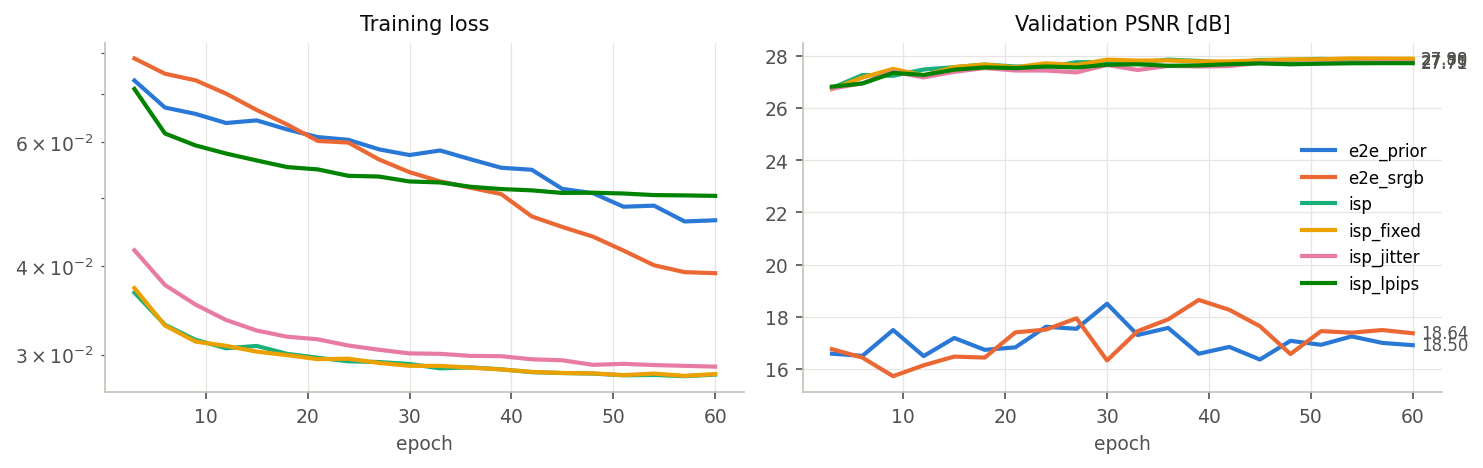
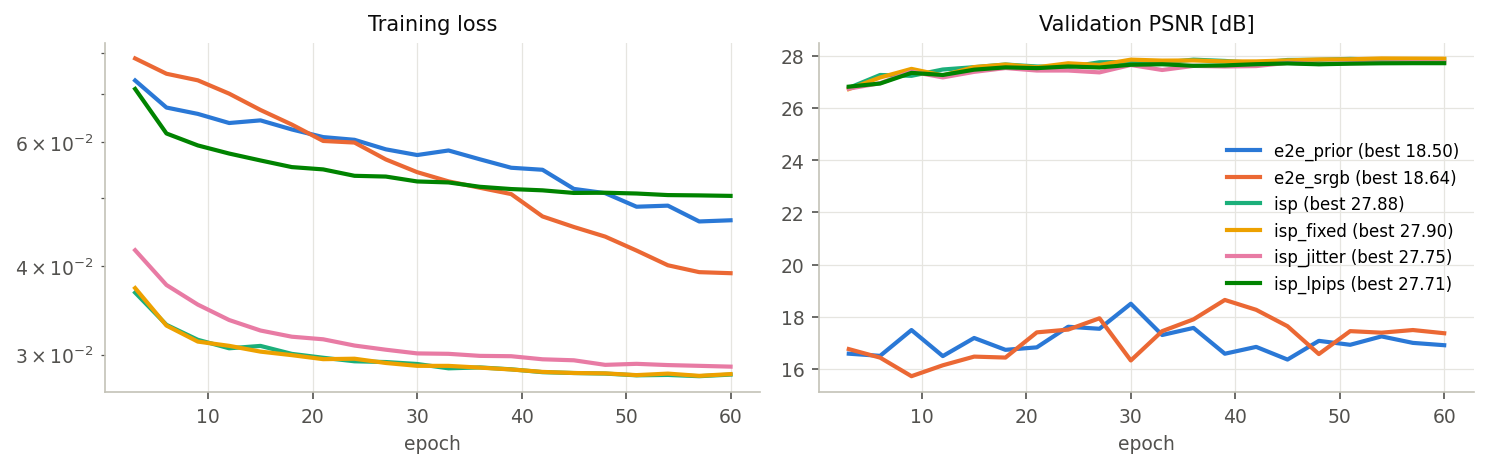
feat: add demo script and improve documentation figures

diff --git a/project2/scripts/predict.py b/project2/scripts/predict.py
@@ -1,0 +1,122 @@
+"""Demo: enhance a single image with a trained network.
+
+Accepts either
+  * a RAW file (.NEF etc.) - the low-light input and the ground truth are generated
+    exactly as in the dataset (-3 EV + Poisson/Gaussian noise), so metrics can be shown, or
+  * an already dark 8-bit image (.png/.jpg) - optionally with --gt for metrics.
+
+Writes <stem>_input.png, <stem>_histeq.png, <stem>_network.png and a side-by-side
+<stem>_comparison.png into --out.
+
+  uv run python scripts/predict.py data/nef/redaf7d93t.NEF
+  uv run python scripts/predict.py data/dataset/input/rc1d2751dt_input.png \
+      --gt data/dataset/gt/rc1d2751dt_gt.png --checkpoint runs/isp_jitter/best.pt
+"""
+from __future__ import annotations
+
+import argparse
+import sys
+import time
+from pathlib import Path
+
+import cv2
+import matplotlib
+
+matplotlib.use("Agg")
+import matplotlib.pyplot as plt  # noqa: E402
+import numpy as np  # noqa: E402
+import torch  # noqa: E402
+
+sys.path.insert(0, str(Path(__file__).resolve().parents[1]))
+
+from lle.baselines import histeq_y  # noqa: E402
+from lle.data import read_rgb  # noqa: E402
+from lle.metrics import LPIPS, psnr, ssim  # noqa: E402
+from lle.models import build_model, infer_full  # noqa: E402
+from lle.raw_pipeline import get_ground_truth, get_linear_image, get_low_light  # noqa: E402
+from lle.utils import get_device  # noqa: E402
+
+RAW_EXTS = {".nef", ".cr2", ".arw", ".dng", ".raf", ".orf", ".rw2"}
+
+
+def load_inputs(path: Path, gt_path: str | None, ev: float, seed: int):
+    if path.suffix.lower() in RAW_EXTS:
+        import rawpy
+
+        with rawpy.imread(str(path)) as raw:
+            gt = get_ground_truth(raw)
+            lin = get_linear_image(raw)
+        dark = get_low_light(None, ev, rng=np.random.default_rng(seed), linear_img=lin)
+        return dark, gt
+    dark = read_rgb(path)
+    return dark, (read_rgb(gt_path) if gt_path else None)
+
+
+def save(path: Path, img: np.ndarray):
+    cv2.imwrite(str(path), cv2.cvtColor(img, cv2.COLOR_RGB2BGR))
+
+
+def main():
+    ap = argparse.ArgumentParser()
+    ap.add_argument("image", help="RAW file (.NEF) or a dark 8-bit image")
+    ap.add_argument("--gt", default=None, help="ground truth for an 8-bit input (optional)")
+    ap.add_argument("--checkpoint", default="runs/isp/best.pt")
+    ap.add_argument("--out", default="results/demo")
+    ap.add_argument("--ev", type=float, default=-3.0, help="exposure reduction for RAW input")
+    ap.add_argument("--seed", type=int, default=0, help="noise seed for RAW input")
+    a = ap.parse_args()
+
+    dev = get_device()
+    path = Path(a.image)
+    out = Path(a.out)
+    out.mkdir(parents=True, exist_ok=True)
+
+    dark, gt = load_inputs(path, a.gt, a.ev, a.seed)
+    ck = torch.load(a.checkpoint, map_location="cpu", weights_only=False)
+    model = build_model(ck["config"]).to(dev).eval()
+    model.load_state_dict(ck["model"])
+
+    x = torch.from_numpy(dark.transpose(2, 0, 1)).float().div(255)[None].to(dev)
+    if dev.type == "cuda":
+        torch.cuda.synchronize()
+    t = time.time()
+    with torch.no_grad(), torch.autocast(dev.type, dtype=torch.bfloat16, enabled=dev.type == "cuda"):
+        pred = infer_full(model, x).float()
+    if dev.type == "cuda":
+        torch.cuda.synchronize()
+    elapsed = time.time() - t
+    net = np.clip(np.round(pred[0].cpu().numpy().transpose(1, 2, 0) * 255), 0, 255).astype(np.uint8)
+    heq = histeq_y(dark)
+
+    stem = path.stem.replace("_input", "")
+    for suffix, img in (("input", dark), ("histeq", heq), ("network", net)):
+        save(out / f"{stem}_{suffix}.png", img)
+
+    panels = [("input (−3 EV + noise)", dark), ("baseline: hist. equalisation", heq),
+              (f"network ({Path(a.checkpoint).parent.name})", net)]
+    if gt is not None:
+        lp = LPIPS(dev)
+        g = gt.astype(np.float32) / 255
+        gt_t = torch.from_numpy(g.transpose(2, 0, 1))[None]
+        print(f"{'method':<10} {'PSNR':>7} {'SSIM':>7} {'LPIPS':>7}")
+        titled = []
+        for (title, img), key in zip(panels, ("input", "histeq", "network")):
+            p = img.astype(np.float32) / 255
+            m = (psnr(p, g), ssim(p, g), float(lp(torch.from_numpy(p.transpose(2, 0, 1))[None], gt_t)[0]))
+            print(f"{key:<10} {m[0]:7.2f} {m[1]:7.4f} {m[2]:7.4f}")
+            titled.append((f"{title}\nPSNR {m[0]:.2f} dB · SSIM {m[1]:.3f} · LPIPS {m[2]:.3f}", img))
+        panels = titled + [("ground truth", gt)]
+
+    fig, ax = plt.subplots(1, len(panels), figsize=(4.6 * len(panels), 3.6))
+    for axis, (title, img) in zip(ax, panels):
+        axis.imshow(img)
+        axis.set_title(title, fontsize=9)
+        axis.axis("off")
+    fig.tight_layout()
+    fig.savefig(out / f"{stem}_comparison.png", dpi=150, bbox_inches="tight")
+    plt.close(fig)
+    print(f"network time: {elapsed:.2f} s ({dark.shape[1]}x{dark.shape[0]}) -> {out}/{stem}_*.png")
+
+
+if __name__ == "__main__":
+    main()

diff --git a/project2/scripts/make_figures.py b/project2/scripts/make_figures.py
@@ -115,9 +115,16 @@ def fig_grid(results, data, names, methods, out, fname="comparison.png", step=4)
 
 
 def pick_crop(gt, size, mode="detail"):
-    """Picks a crop: 'detail' - most edges, 'clipped' - most clipped pixels."""
+    """Picks a crop: 'detail' - most structure, 'clipped' - most clipped pixels."""
     g = cv2.cvtColor(gt, cv2.COLOR_RGB2GRAY).astype(np.float32)
-    score = np.abs(cv2.Laplacian(g, cv2.CV_32F)) if mode == "detail" else (gt.max(-1) >= 250).astype(np.float32)
+    if mode == "detail":
+        # gradient magnitude of a blurred image: real edges/text, not fine grain;
+        # clipped pixels are excluded (they are analysed in a separate figure)
+        gb = cv2.GaussianBlur(g, (0, 0), 2.0)
+        score = np.hypot(cv2.Sobel(gb, cv2.CV_32F, 1, 0), cv2.Sobel(gb, cv2.CV_32F, 0, 1))
+        score[gt.max(-1) >= 250] = 0
+    else:
+        score = (gt.max(-1) >= 250).astype(np.float32)
     score = cv2.boxFilter(score, -1, (size, size))
     h, w = g.shape
     score[: size // 2], score[h - size // 2:], score[:, : size // 2], score[:, w - size // 2:] = 0, 0, 0, 0
@@ -158,10 +165,10 @@ def fig_curves(runs, out):
             continue
         d = pd.read_csv(f)
         c = SERIES[i % len(SERIES)]
-        ax[0].plot(d.epoch, d.loss, color=c, label=Path(r).name)
-        ax[1].plot(d.epoch, d.val_psnr, color=c, label=Path(r).name)
-        ax[1].annotate(f"{d.val_psnr.max():.2f}", (d.epoch.iloc[-1], d.val_psnr.iloc[-1]),
-                       xytext=(4, 0), textcoords="offset points", color=INK2, fontsize=8, va="center")
+        name = Path(r).name
+        ax[0].plot(d.epoch, d.loss, color=c, label=name)
+        # best value in the legend instead of end-of-line labels (those overlap for close curves)
+        ax[1].plot(d.epoch, d.val_psnr, color=c, label=f"{name} (best {d.val_psnr.max():.2f})")
     ax[0].set_title("Training loss"); ax[0].set_xlabel("epoch"); ax[0].set_yscale("log")
     ax[1].set_title("Validation PSNR [dB]"); ax[1].set_xlabel("epoch")
     ax[1].legend(frameon=False, fontsize=8)

diff --git a/project2/README.md b/project2/README.md
@@ -26,6 +26,15 @@ just figures       # docs/figures/*.png
 just all
 ```
 
+**Demo na jednym zdjęciu** (np. do prezentacji). Plik RAW jest przyciemniany i
+zaszumiany tak samo jak zbiór danych, a wynik pokazuje metryki względem GT:
+
+```bash
+just predict data/nef/rc1d2751dt.NEF                 # -> results/demo/rc1d2751dt_comparison.png
+just predict ciemne_zdjecie.png                      # gotowe ciemne zdjęcie 8-bit (bez metryk)
+just predict data/nef/rc1d2751dt.NEF --ev -4 --seed 1
+```
+
 Pojedynczy trening: `just train <nazwa> [opcje train.py]`, np.
 `just train test_run --input-mode srgb --epochs 5`.
 
@@ -38,4 +47,4 @@ Pojedynczy trening: `just train <nazwa> [opcje train.py]`, np.
 | `lle/models.py` | `LowLightNet`: Residual U-Net z uwagą kanałową + opcjonalne „fizyczne” wyrównanie ekspozycji wejścia |
 | `lle/baselines.py` | wyrównanie histogramu (baseline) + metody pomocnicze |
 | `lle/data.py`, `lle/losses.py`, `lle/metrics.py` | dane, funkcje straty, PSNR/SSIM/LPIPS |
-| `scripts/*.py` | pobieranie, generacja zbioru, trening, ewaluacja, odporność, rysunki |
+| `scripts/*.py` | pobieranie, generacja zbioru, trening, ewaluacja, odporność, rysunki, demo (`predict.py`) |

diff --git a/project2/docs/DOKUMENTACJA.md b/project2/docs/DOKUMENTACJA.md
@@ -365,7 +365,14 @@ just train-all     # 6 wariantów (~3,5 h na RTX 5050)
 just evaluate      # results/summary_test.csv, results/table_test.md
 just robustness    # results/robustness.csv
 just figures       # docs/figures/*.png
+just predict data/nef/rc1d2751dt.NEF   # demo: jedno zdjęcie -> results/demo/*_comparison.png
 ```
+
+Demo przyciemnia plik RAW o 3 EV i dodaje szum tak samo jak w zbiorze danych.
+Potem uruchamia baseline i sieć i zapisuje porównanie z metrykami względem GT.
+Przyjmuje też gotowe ciemne zdjęcie PNG/JPG (`--gt` opcjonalnie). Opcje `--ev`
+i `--seed` pozwalają pokazać działanie przy innej ekspozycji i innej
+realizacji szumu.
 
 | Plik | Zawartość |
 |---|---|
